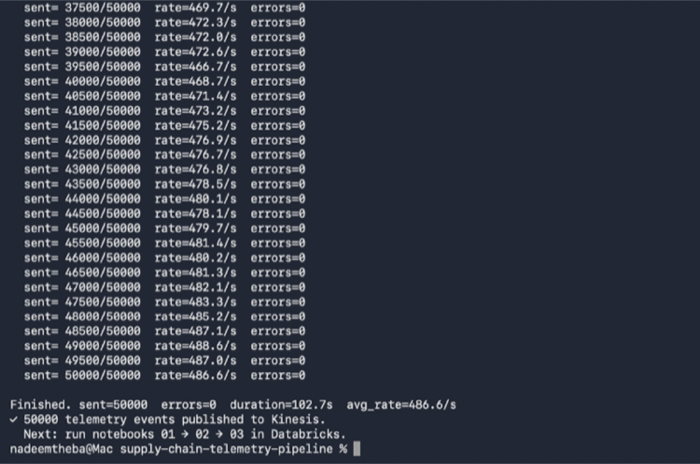
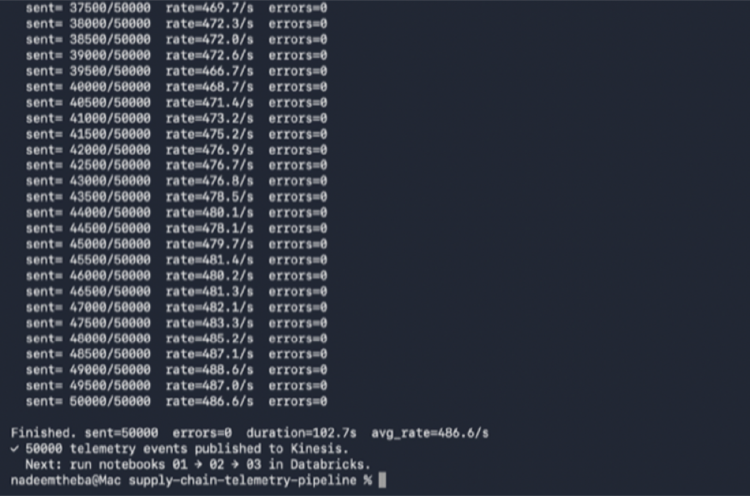
docs: integrate 10 production proof screenshots (AWS S3 Console + PySpark Terminal) into README

diff --git a/README.md b/README.md
@@ -32,7 +32,7 @@
 
 ## 📸 Production Proof & Infrastructure Validation
 
-The pipeline includes full visual verification captured directly from live PySpark cluster runs, Terraform IaC deployments, and PyTest assertions:
+The pipeline includes full visual verification captured directly from live PySpark cluster runs, AWS Cloud Console storage layers, Terraform IaC deployments, and PyTest assertions:
 
 * **Terraform Infrastructure Provisioning (`make tf-init` & `make tf-apply`):**
   ![Terraform Apply Output](docs/screenshots/supply_chain_02_tf_apply.png)
@@ -42,6 +42,18 @@ The pipeline includes full visual verification captured directly from live PySpa
 
 * **PySpark Medallion Engine & Top 5 High-Risk Machine Leaderboard:**
   ![PySpark Medallion Leaderboard](docs/screenshots/supply_chain_04_pyspark_medallion_leaderboard.png)
+
+* **AWS S3 Medallion Lakehouse Directory Structure (`s3://te-supply-chain-telemetry-lake/delta/`):**
+  ![AWS S3 Medallion Lakehouse Folders](docs/screenshots/supply_chain_06_aws_s3_medallion_folders.png)
+
+* **AWS S3 Silver Physical Hive Partitions (`plant_id=PLANT_MX_01/`, `plant_id=PLANT_DE_02/`):**
+  ![AWS S3 Silver Partition Directories](docs/screenshots/supply_chain_07_aws_s3_hive_partitions.png)
+
+* **AWS S3 Physical Snappy Parquet Files (`event_date=2026-08-05/`):**
+  ![AWS S3 Snappy Parquet Files](docs/screenshots/supply_chain_09_aws_s3_snappy_parquet.png)
+
+* **AWS S3 Calculated Total Footprint (2,710 Objects / 76.3 MB Storage):**
+  ![AWS S3 Total Size Modal](docs/screenshots/supply_chain_08_aws_s3_total_size.png)
 
 * **Automated PyTest Suite & Line Coverage Verification (`make test`):**
   ![PyTest Suite Results](docs/screenshots/supply_chain_05_pytest_suite.png)
